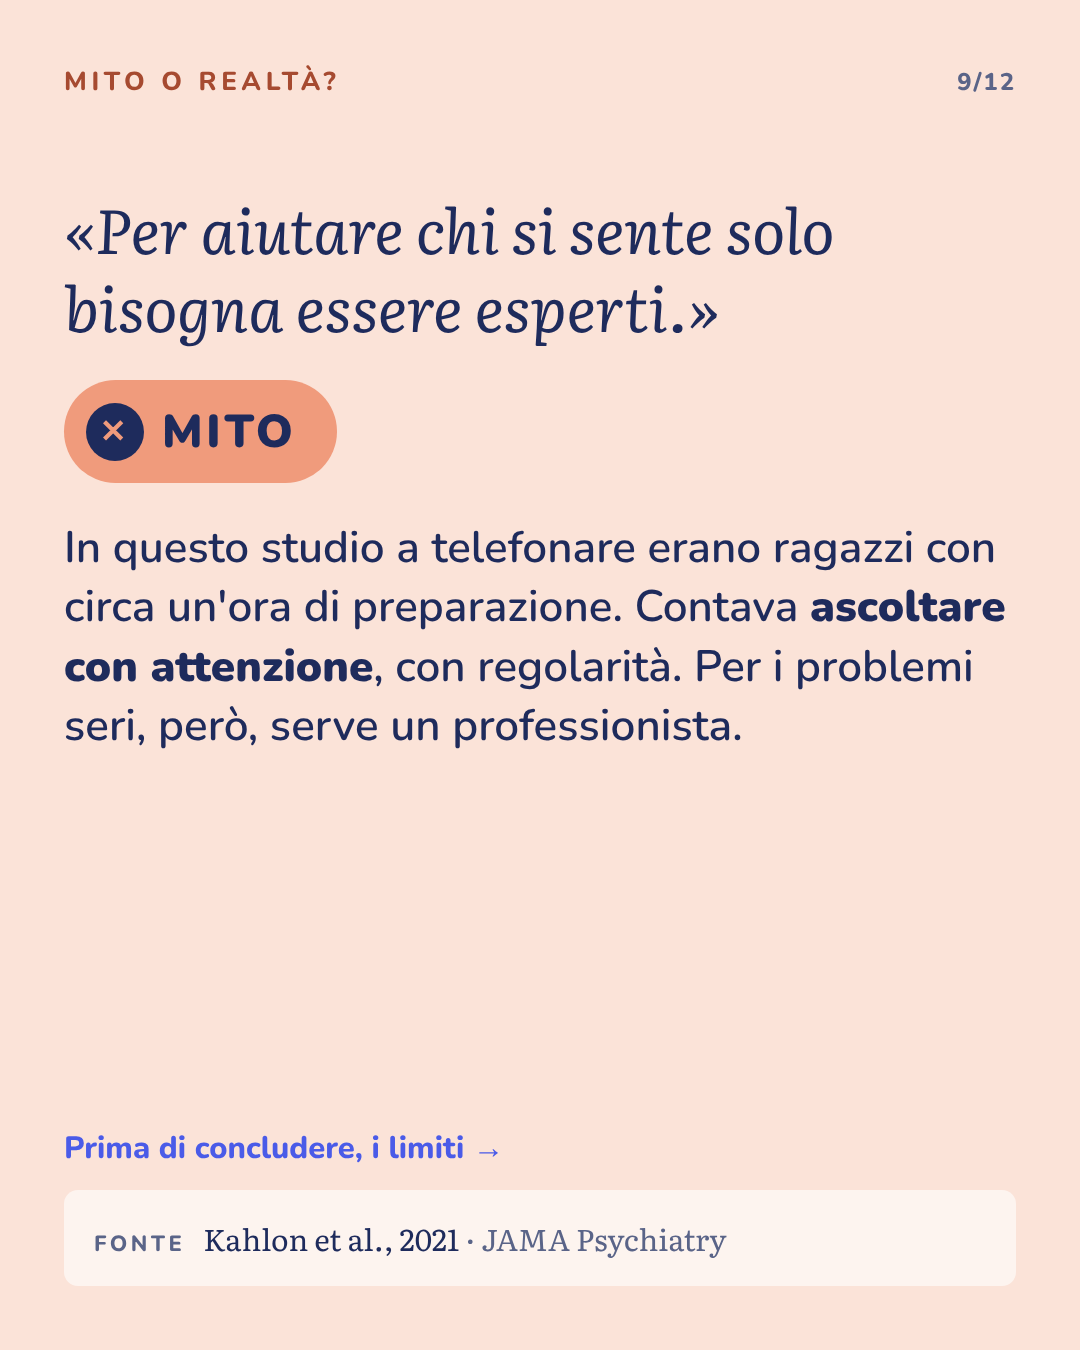
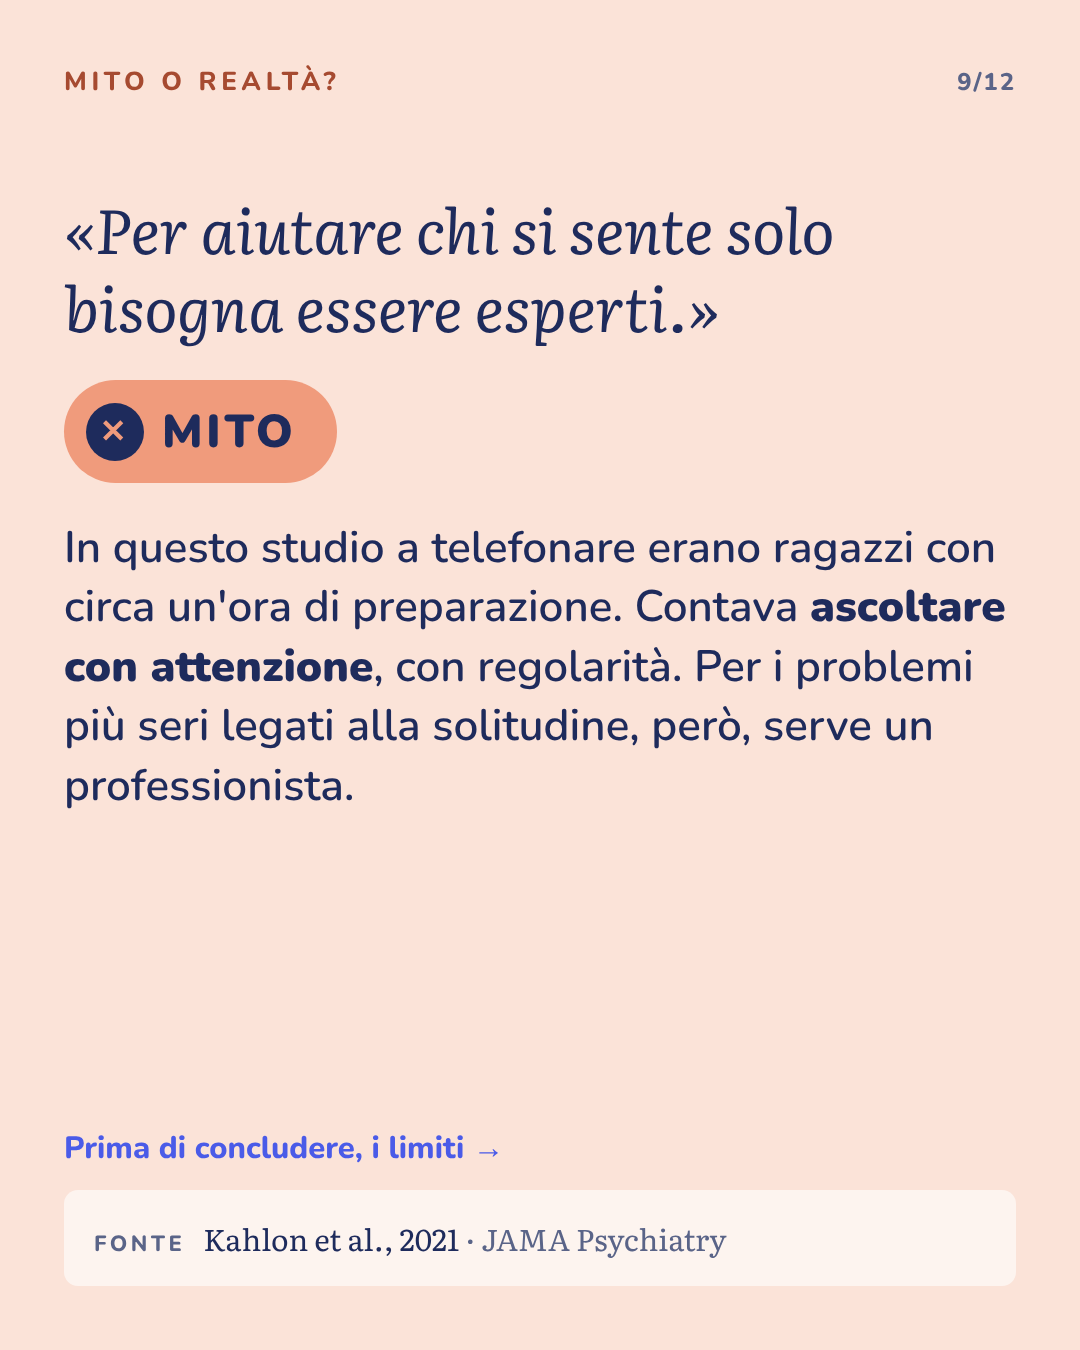
Telefonata: founder's editor edits (slides 5, 9, 11)
Claude-Session: https://claude.ai/code/session_01KYQeP73Zvn8PeP6zhkL2Sc

Changed region(s): [[0.0611, 0.5289, 0.8556, 0.5911]]

diff --git a/carosselli/telefonata/editor-testi.html b/carosselli/telefonata/editor-testi.html
@@ -306,7 +306,7 @@ svg.shape{position:absolute;z-index:1}
     <span style="align-self:center;margin-top:6px;margin-bottom:34px;background:var(--coral);color:#fff;font-weight:900;font-size:32px;border-radius:999px;padding:12px 30px" data-e="s5-5">vantaggio netto: +37%</span>
     <svg width="880" height="390" viewBox="0 0 880 390" style="align-self:center;overflow:visible"><path d="M170.0 330.0 A270 270 0 0 1 710.0 330.0" fill="none" stroke="#F3EEE8" stroke-width="52"></path><path d="M440.0 60.0 A270 270 0 0 1 587.5 103.9" fill="none" stroke="#7FD3C8" stroke-width="52"></path><line x1="204.0" y1="330.0" x2="136.0" y2="330.0" stroke="#5A6488" stroke-width="3"></line><text x="170.0" y="384.0" text-anchor="middle" font-family="Nunito" font-weight="800" font-size="28" fill="#5A6488">−100%</text><line x1="273.1" y1="163.1" x2="225.0" y2="115.0" stroke="#5A6488" stroke-width="3"></line><text x="199.6" y="99.6" text-anchor="middle" font-family="Nunito" font-weight="800" font-size="28" fill="#5A6488">−50%</text><line x1="440.0" y1="94.0" x2="440.0" y2="26.0" stroke="#5A6488" stroke-width="3"></line><text x="440.0" y="0.0" text-anchor="middle" font-family="Nunito" font-weight="800" font-size="28" fill="#5A6488">0%</text><line x1="606.9" y1="163.1" x2="655.0" y2="115.0" stroke="#5A6488" stroke-width="3"></line><text x="680.4" y="99.6" text-anchor="middle" font-family="Nunito" font-weight="800" font-size="28" fill="#5A6488">+50%</text><line x1="676.0" y1="330.0" x2="744.0" y2="330.0" stroke="#5A6488" stroke-width="3"></line><text x="710.0" y="384.0" text-anchor="middle" font-family="Nunito" font-weight="800" font-size="28" fill="#5A6488">+100%</text><line x1="440" y1="330" x2="554.7" y2="154.1" stroke="#F09B7C" stroke-width="12" stroke-linecap="round"></line><circle cx="440" cy="330" r="22" fill="#1E2B5C"></circle></svg>
     <p style="align-self:center;font-weight:800;font-size:24px;color:var(--muted);margin-top:-6px" data-e="s5-6">0% = nessuna differenza</p>
-    <p class="mid" style="font-size:29px" data-e="s5-7">La persona media che ha ricevuto le telefonate si è sentita meno sola del 68% del gruppo B e più sola del 32%: il saldo è <b>+37%</b>. Senza effetto, l'ago sarebbe rimasto sullo 0%. Non vuol dire «37% di solitudine in meno».</p>
+    <p class="mid" style="font-size:29px" data-e="s5-7">La persona media che ha ricevuto le telefonate si è sentita meno sola del 68% del gruppo B e più sola del 32%: il saldo è <b>+37%</b>. Senza effetto, l'ago sarebbe rimasto sullo 0%.</p>
   </div>
   <p class="next" data-e="s5-8">I risultati, tradotti →</p>
   <div class="src"><b data-e="s5-9">FONTE</b><span data-e="s5-10"><em>Kahlon et al., 2021</em> · JAMA Psychiatry</span></div>
@@ -346,7 +346,7 @@ svg.shape{position:absolute;z-index:1}
   <div class="stack" style="margin-top:90px;gap:36px">
     <p class="quote" data-e="s9-3">«Per aiutare chi si sente solo bisogna essere esperti.»</p>
     <span class="badge mito" data-e="s9-4"><i>✕</i>MITO</span>
-    <p class="body" data-e="s9-5">In questo studio a telefonare erano ragazzi con circa un'ora di preparazione. Contava <span class="hl">ascoltare con attenzione</span>, con regolarità. Per i problemi seri, però, serve un professionista.</p>
+    <p class="body" data-e="s9-5">In questo studio a telefonare erano ragazzi con circa un'ora di preparazione. Contava <span class="hl">ascoltare con attenzione</span>, con regolarità. Per i problemi più seri legati alla solitudine, però, serve un professionista.</p>
   </div>
   <p class="next" data-e="s9-6">Prima di concludere, i limiti →</p>
   <div class="src"><b data-e="s9-7">FONTE</b><span data-e="s9-8"><em>Kahlon et al., 2021</em> · JAMA Psychiatry</span></div>
@@ -369,7 +369,7 @@ svg.shape{position:absolute;z-index:1}
     <h2 style="font-size:62px" data-e="s11-3">C'è qualcuno che potresti <span class="hl t">chiamare</span> questa settimana?</h2>
     <div class="pr">
       <div><span class="n" data-e="s11-4">1</span><p><b data-e="s11-5">Scegli una persona</b><span data-e="s11-6">Un nonno, una vicina, un amico che senti poco.</span></p></div>
-      <div><span class="n" data-e="s11-7">2</span><p><b data-e="s11-8">Dieci minuti, tante domande</b><span data-e="s11-9">Lascia che sia l'altra persona a scegliere di che cosa parlare, e ascolta.</span></p></div>
+      <div><span class="n" data-e="s11-7">2</span><p><b data-e="s11-8">Dieci minuti, poche domande</b><span data-e="s11-9">Lascia che sia l'altra persona a scegliere di che cosa parlare, e ascolta.</span></p></div>
       <div><span class="n" data-e="s11-10">3</span><p><b data-e="s11-11">Un appuntamento fisso</b><span data-e="s11-12">Stesso giorno, stessa ora: la regolarità fa parte del gesto.</span></p></div>
     </div>
   </div>

diff --git a/carosselli/telefonata/slides.html b/carosselli/telefonata/slides.html
@@ -275,7 +275,7 @@ svg.shape{position:absolute;z-index:1}
     <span style="align-self:center;margin-top:6px;margin-bottom:34px;background:var(--coral);color:#fff;font-weight:900;font-size:32px;border-radius:999px;padding:12px 30px">vantaggio netto: +37%</span>
     <svg width="880" height="390" viewBox="0 0 880 390" style="align-self:center;overflow:visible"><path d="M170.0 330.0 A270 270 0 0 1 710.0 330.0" fill="none" stroke="#F3EEE8" stroke-width="52"></path><path d="M440.0 60.0 A270 270 0 0 1 587.5 103.9" fill="none" stroke="#7FD3C8" stroke-width="52"></path><line x1="204.0" y1="330.0" x2="136.0" y2="330.0" stroke="#5A6488" stroke-width="3"></line><text x="170.0" y="384.0" text-anchor="middle" font-family="Nunito" font-weight="800" font-size="28" fill="#5A6488">−100%</text><line x1="273.1" y1="163.1" x2="225.0" y2="115.0" stroke="#5A6488" stroke-width="3"></line><text x="199.6" y="99.6" text-anchor="middle" font-family="Nunito" font-weight="800" font-size="28" fill="#5A6488">−50%</text><line x1="440.0" y1="94.0" x2="440.0" y2="26.0" stroke="#5A6488" stroke-width="3"></line><text x="440.0" y="0.0" text-anchor="middle" font-family="Nunito" font-weight="800" font-size="28" fill="#5A6488">0%</text><line x1="606.9" y1="163.1" x2="655.0" y2="115.0" stroke="#5A6488" stroke-width="3"></line><text x="680.4" y="99.6" text-anchor="middle" font-family="Nunito" font-weight="800" font-size="28" fill="#5A6488">+50%</text><line x1="676.0" y1="330.0" x2="744.0" y2="330.0" stroke="#5A6488" stroke-width="3"></line><text x="710.0" y="384.0" text-anchor="middle" font-family="Nunito" font-weight="800" font-size="28" fill="#5A6488">+100%</text><line x1="440" y1="330" x2="554.7" y2="154.1" stroke="#F09B7C" stroke-width="12" stroke-linecap="round"></line><circle cx="440" cy="330" r="22" fill="#1E2B5C"></circle></svg>
     <p style="align-self:center;font-weight:800;font-size:24px;color:var(--muted);margin-top:-6px">0% = nessuna differenza</p>
-    <p class="mid" style="font-size:29px">La persona media che ha ricevuto le telefonate si è sentita meno sola del 68% del gruppo B e più sola del 32%: il saldo è <b>+37%</b>. Senza effetto, l'ago sarebbe rimasto sullo 0%. Non vuol dire «37% di solitudine in meno».</p>
+    <p class="mid" style="font-size:29px">La persona media che ha ricevuto le telefonate si è sentita meno sola del 68% del gruppo B e più sola del 32%: il saldo è <b>+37%</b>. Senza effetto, l'ago sarebbe rimasto sullo 0%.</p>
   </div>
   <p class="next">I risultati, tradotti →</p>
   <div class="src"><b>FONTE</b><span><em>Kahlon et al., 2021</em> · JAMA Psychiatry</span></div>
@@ -323,7 +323,7 @@ svg.shape{position:absolute;z-index:1}
   <div class="stack" style="margin-top:90px;gap:36px">
     <p class="quote">«Per aiutare chi si sente solo bisogna essere esperti.»</p>
     <span class="badge mito"><i>✕</i>MITO</span>
-    <p class="body">In questo studio a telefonare erano ragazzi con circa un'ora di preparazione. Contava <span class="hl">ascoltare con attenzione</span>, con regolarità. Per i problemi seri, però, serve un professionista.</p>
+    <p class="body">In questo studio a telefonare erano ragazzi con circa un'ora di preparazione. Contava <span class="hl">ascoltare con attenzione</span>, con regolarità. Per i problemi più seri legati alla solitudine, però, serve un professionista.</p>
   </div>
   <p class="next">Prima di concludere, i limiti →</p>
   <div class="src"><b>FONTE</b><span><em>Kahlon et al., 2021</em> · JAMA Psychiatry</span></div>
@@ -350,7 +350,7 @@ svg.shape{position:absolute;z-index:1}
     <h2 style="font-size:62px">C'è qualcuno che potresti <span class="hl t">chiamare</span> questa settimana?</h2>
     <div class="pr">
       <div><span class="n">1</span><p><b>Scegli una persona</b><span>Un nonno, una vicina, un amico che senti poco.</span></p></div>
-      <div><span class="n">2</span><p><b>Dieci minuti, tante domande</b><span>Lascia che sia l'altra persona a scegliere di che cosa parlare, e ascolta.</span></p></div>
+      <div><span class="n">2</span><p><b>Dieci minuti, poche domande</b><span>Lascia che sia l'altra persona a scegliere di che cosa parlare, e ascolta.</span></p></div>
       <div><span class="n">3</span><p><b>Un appuntamento fisso</b><span>Stesso giorno, stessa ora: la regolarità fa parte del gesto.</span></p></div>
     </div>
   </div>

diff --git a/carosselli/telefonata/body.html b/carosselli/telefonata/body.html
@@ -200,7 +200,7 @@
     <span style="align-self:center;margin-top:6px;margin-bottom:34px;background:var(--coral);color:#fff;font-weight:900;font-size:32px;border-radius:999px;padding:12px 30px">vantaggio netto: +37%</span>
     <svg width="880" height="390" viewBox="0 0 880 390" style="align-self:center;overflow:visible"><path d="M170.0 330.0 A270 270 0 0 1 710.0 330.0" fill="none" stroke="#F3EEE8" stroke-width="52"></path><path d="M440.0 60.0 A270 270 0 0 1 587.5 103.9" fill="none" stroke="#7FD3C8" stroke-width="52"></path><line x1="204.0" y1="330.0" x2="136.0" y2="330.0" stroke="#5A6488" stroke-width="3"></line><text x="170.0" y="384.0" text-anchor="middle" font-family="Nunito" font-weight="800" font-size="28" fill="#5A6488">−100%</text><line x1="273.1" y1="163.1" x2="225.0" y2="115.0" stroke="#5A6488" stroke-width="3"></line><text x="199.6" y="99.6" text-anchor="middle" font-family="Nunito" font-weight="800" font-size="28" fill="#5A6488">−50%</text><line x1="440.0" y1="94.0" x2="440.0" y2="26.0" stroke="#5A6488" stroke-width="3"></line><text x="440.0" y="0.0" text-anchor="middle" font-family="Nunito" font-weight="800" font-size="28" fill="#5A6488">0%</text><line x1="606.9" y1="163.1" x2="655.0" y2="115.0" stroke="#5A6488" stroke-width="3"></line><text x="680.4" y="99.6" text-anchor="middle" font-family="Nunito" font-weight="800" font-size="28" fill="#5A6488">+50%</text><line x1="676.0" y1="330.0" x2="744.0" y2="330.0" stroke="#5A6488" stroke-width="3"></line><text x="710.0" y="384.0" text-anchor="middle" font-family="Nunito" font-weight="800" font-size="28" fill="#5A6488">+100%</text><line x1="440" y1="330" x2="554.7" y2="154.1" stroke="#F09B7C" stroke-width="12" stroke-linecap="round"></line><circle cx="440" cy="330" r="22" fill="#1E2B5C"></circle></svg>
     <p style="align-self:center;font-weight:800;font-size:24px;color:var(--muted);margin-top:-6px">0% = nessuna differenza</p>
-    <p class="mid" style="font-size:29px">La persona media che ha ricevuto le telefonate si è sentita meno sola del 68% del gruppo B e più sola del 32%: il saldo è <b>+37%</b>. Senza effetto, l'ago sarebbe rimasto sullo 0%. Non vuol dire «37% di solitudine in meno».</p>
+    <p class="mid" style="font-size:29px">La persona media che ha ricevuto le telefonate si è sentita meno sola del 68% del gruppo B e più sola del 32%: il saldo è <b>+37%</b>. Senza effetto, l'ago sarebbe rimasto sullo 0%.</p>
   </div>
   <p class="next">I risultati, tradotti →</p>
   <div class="src"><b>FONTE</b><span><em>Kahlon et al., 2021</em> · JAMA Psychiatry</span></div>
@@ -248,7 +248,7 @@
   <div class="stack" style="margin-top:90px;gap:36px">
     <p class="quote">«Per aiutare chi si sente solo bisogna essere esperti.»</p>
     <span class="badge mito"><i>✕</i>MITO</span>
-    <p class="body">In questo studio a telefonare erano ragazzi con circa un'ora di preparazione. Contava <span class="hl">ascoltare con attenzione</span>, con regolarità. Per i problemi seri, però, serve un professionista.</p>
+    <p class="body">In questo studio a telefonare erano ragazzi con circa un'ora di preparazione. Contava <span class="hl">ascoltare con attenzione</span>, con regolarità. Per i problemi più seri legati alla solitudine, però, serve un professionista.</p>
   </div>
   <p class="next">Prima di concludere, i limiti →</p>
   <div class="src"><b>FONTE</b><span><em>Kahlon et al., 2021</em> · JAMA Psychiatry</span></div>
@@ -275,7 +275,7 @@
     <h2 style="font-size:62px">C'è qualcuno che potresti <span class="hl t">chiamare</span> questa settimana?</h2>
     <div class="pr">
       <div><span class="n">1</span><p><b>Scegli una persona</b><span>Un nonno, una vicina, un amico che senti poco.</span></p></div>
-      <div><span class="n">2</span><p><b>Dieci minuti, tante domande</b><span>Lascia che sia l'altra persona a scegliere di che cosa parlare, e ascolta.</span></p></div>
+      <div><span class="n">2</span><p><b>Dieci minuti, poche domande</b><span>Lascia che sia l'altra persona a scegliere di che cosa parlare, e ascolta.</span></p></div>
       <div><span class="n">3</span><p><b>Un appuntamento fisso</b><span>Stesso giorno, stessa ora: la regolarità fa parte del gesto.</span></p></div>
     </div>
   </div>

diff --git a/carosselli/telefonata/kit-pubblicazione-telefonata.md b/carosselli/telefonata/kit-pubblicazione-telefonata.md
@@ -21,7 +21,7 @@ Una ricerca del 2021 ha coinvolto 240 adulti in Texas che ricevevano i pasti a d
 
 Dopo quattro settimane, chi era stato chiamato si è sentito meno solo, con meno sintomi d'ansia e di umore giù, rispetto all'altro gruppo. L'88% si è detto soddisfatto.
 
-Mito o realtà? «Per aiutare chi si sente solo bisogna essere esperti.» In questo studio, mito: contava ascoltare con attenzione, con regolarità. Per i problemi seri, però, serve un professionista.
+Mito o realtà? «Per aiutare chi si sente solo bisogna essere esperti.» In questo studio, mito: contava ascoltare con attenzione, con regolarità. Per i problemi più seri legati alla solitudine, però, serve un professionista.
 
 I limiti: lo studio è durato quattro settimane e non sappiamo se i benefici siano durati; non si può distinguere l'effetto di ricevere una chiamata da quello del modo di farla; riguarda persone negli Stati Uniti, durante la pandemia; uno dei due questionari sulla solitudine non ha mostrato una differenza certa.
 
@@ -58,7 +58,7 @@ Non è un «37% di solitudine in meno». Con la seconda scala sulla solitudine (
 8. Ascoltare, non consigliare: non c'erano terapia, copione o esperti; c'erano attenzione, domande e regolarità.
 9. Mito o realtà? «Per aiutare chi si sente solo bisogna essere esperti.» Mito.
 10. I limiti: quattro settimane; chiamata o modo di farla; Stati Uniti, pandemia; questionari.
-11. Prova così: scegli una persona; dieci minuti, tante domande; un appuntamento fisso.
+11. Prova così: scegli una persona; dieci minuti, poche domande; un appuntamento fisso.
 12. Un piccolo gesto a settimana, già in agenda. Scopri WeSelf, link in bio. Supporto: medico di base, Telefono Amico Italia, 112.
 
 ## Note di affidabilità
